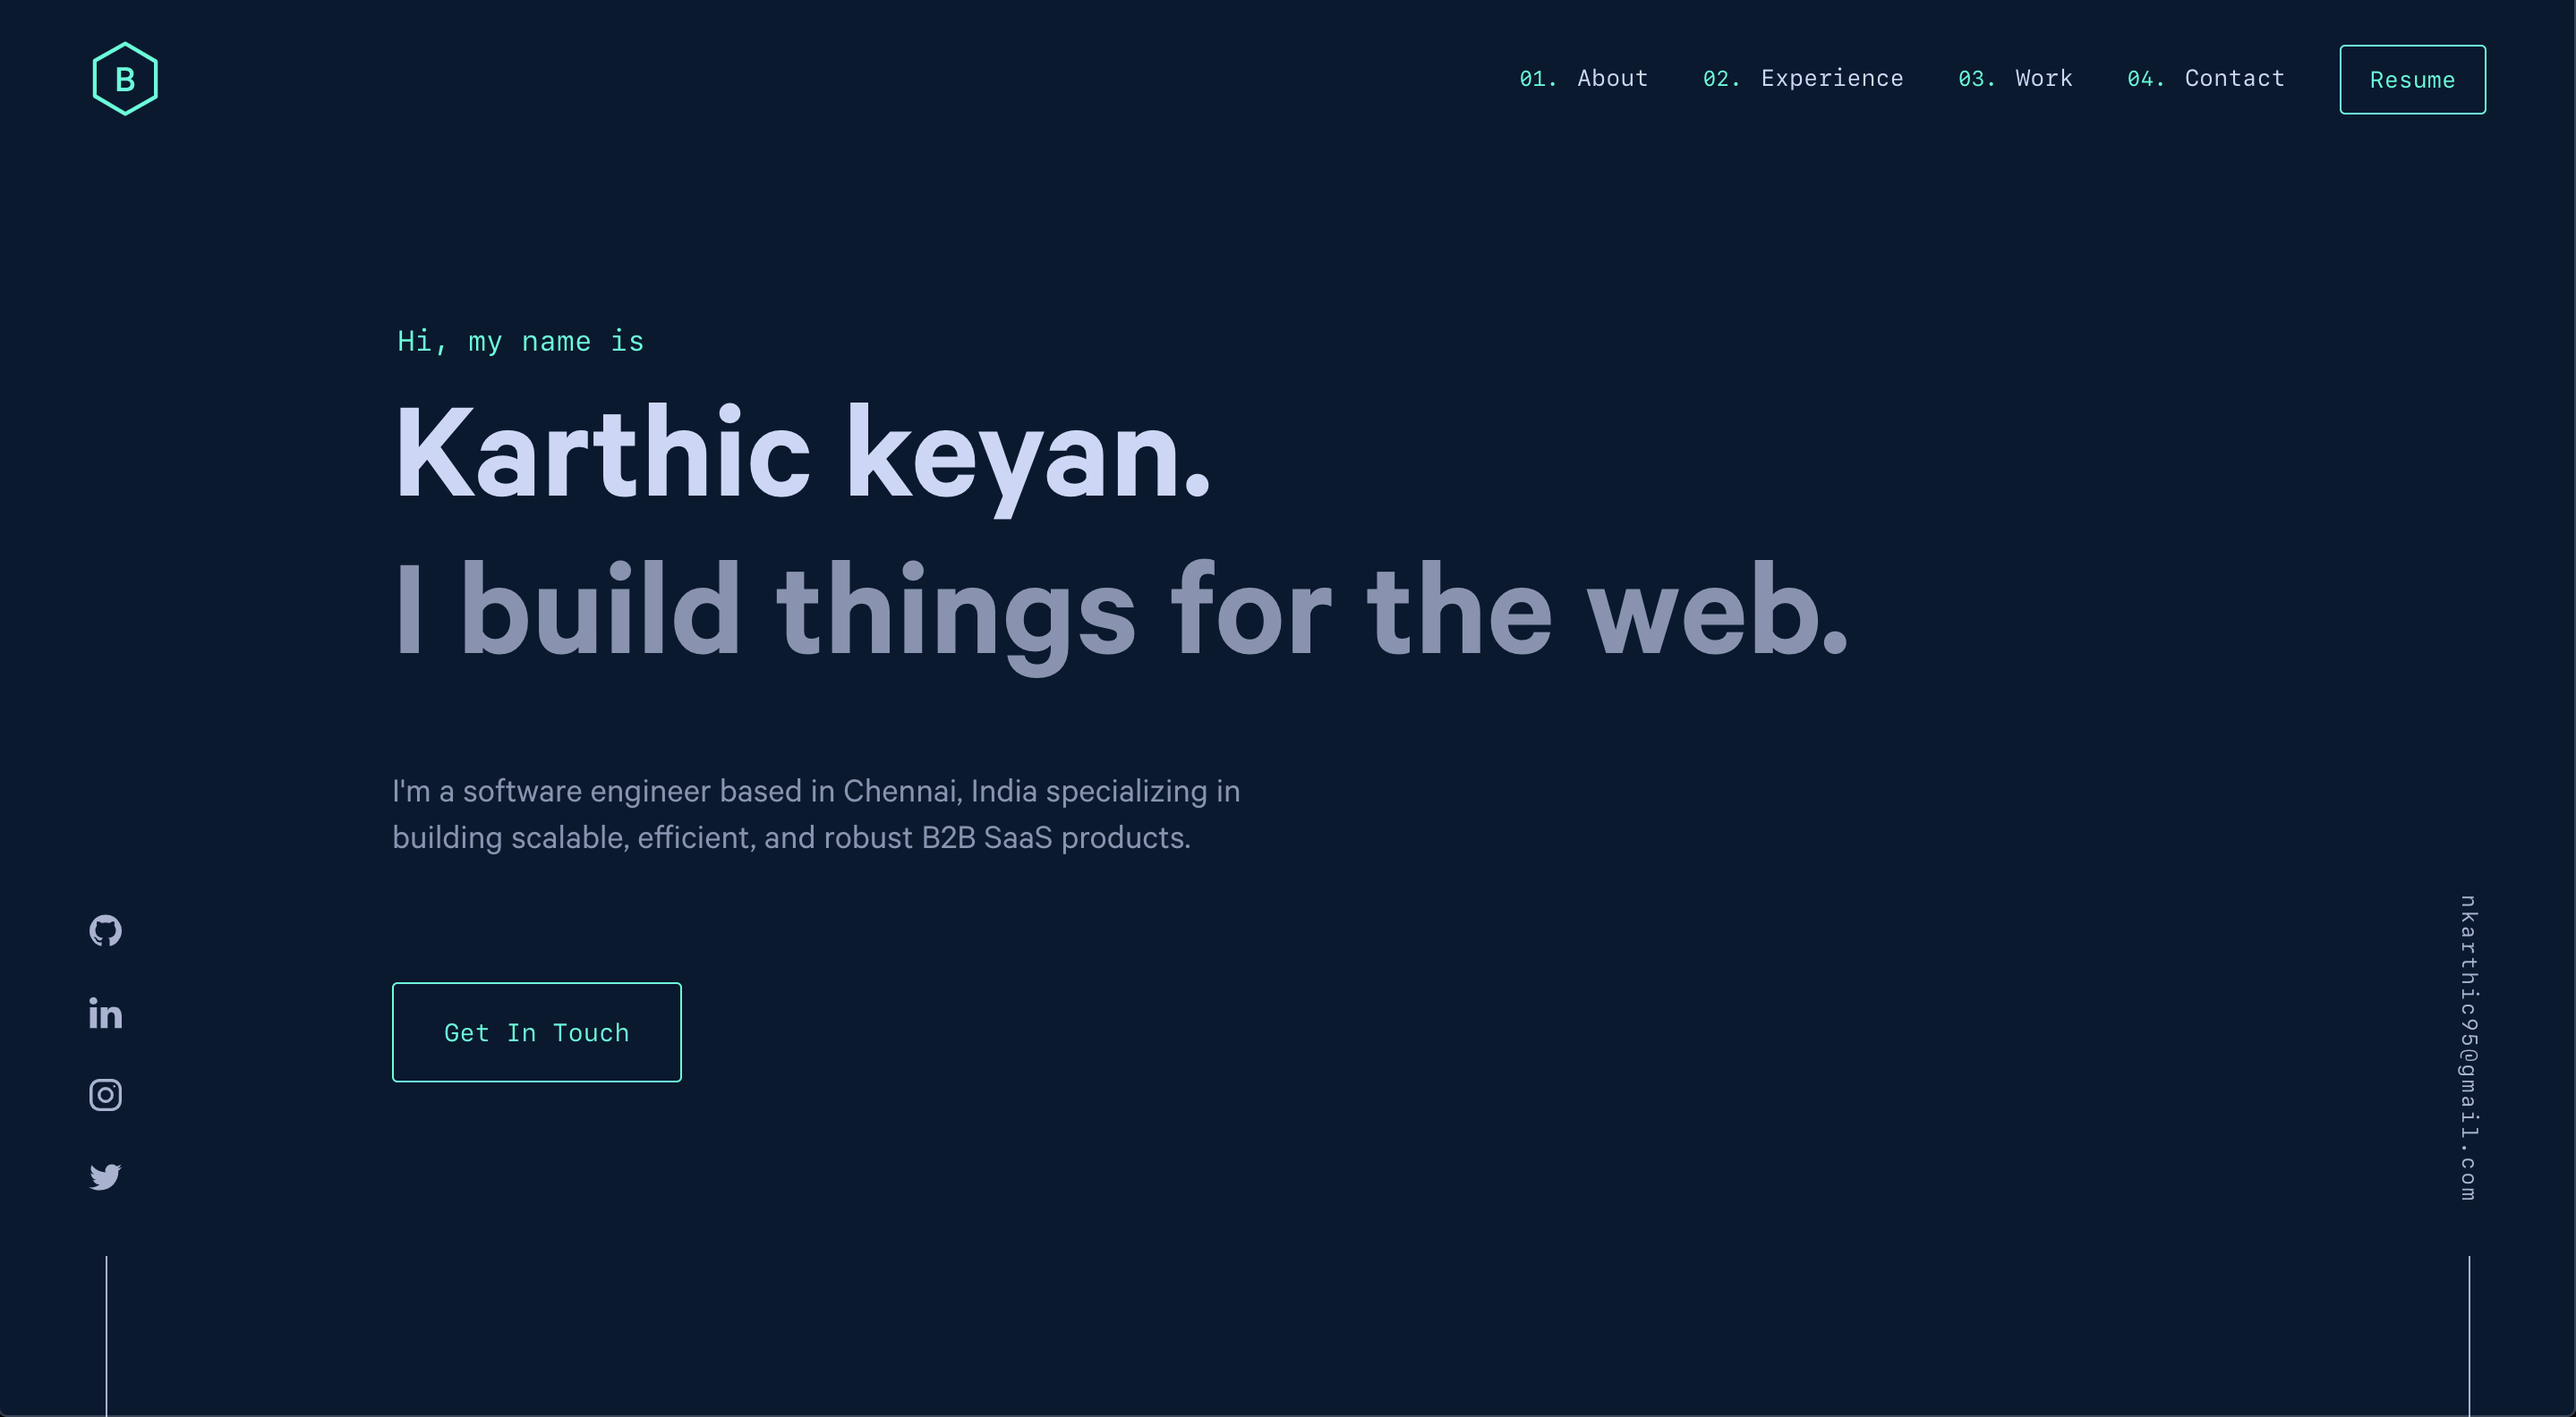
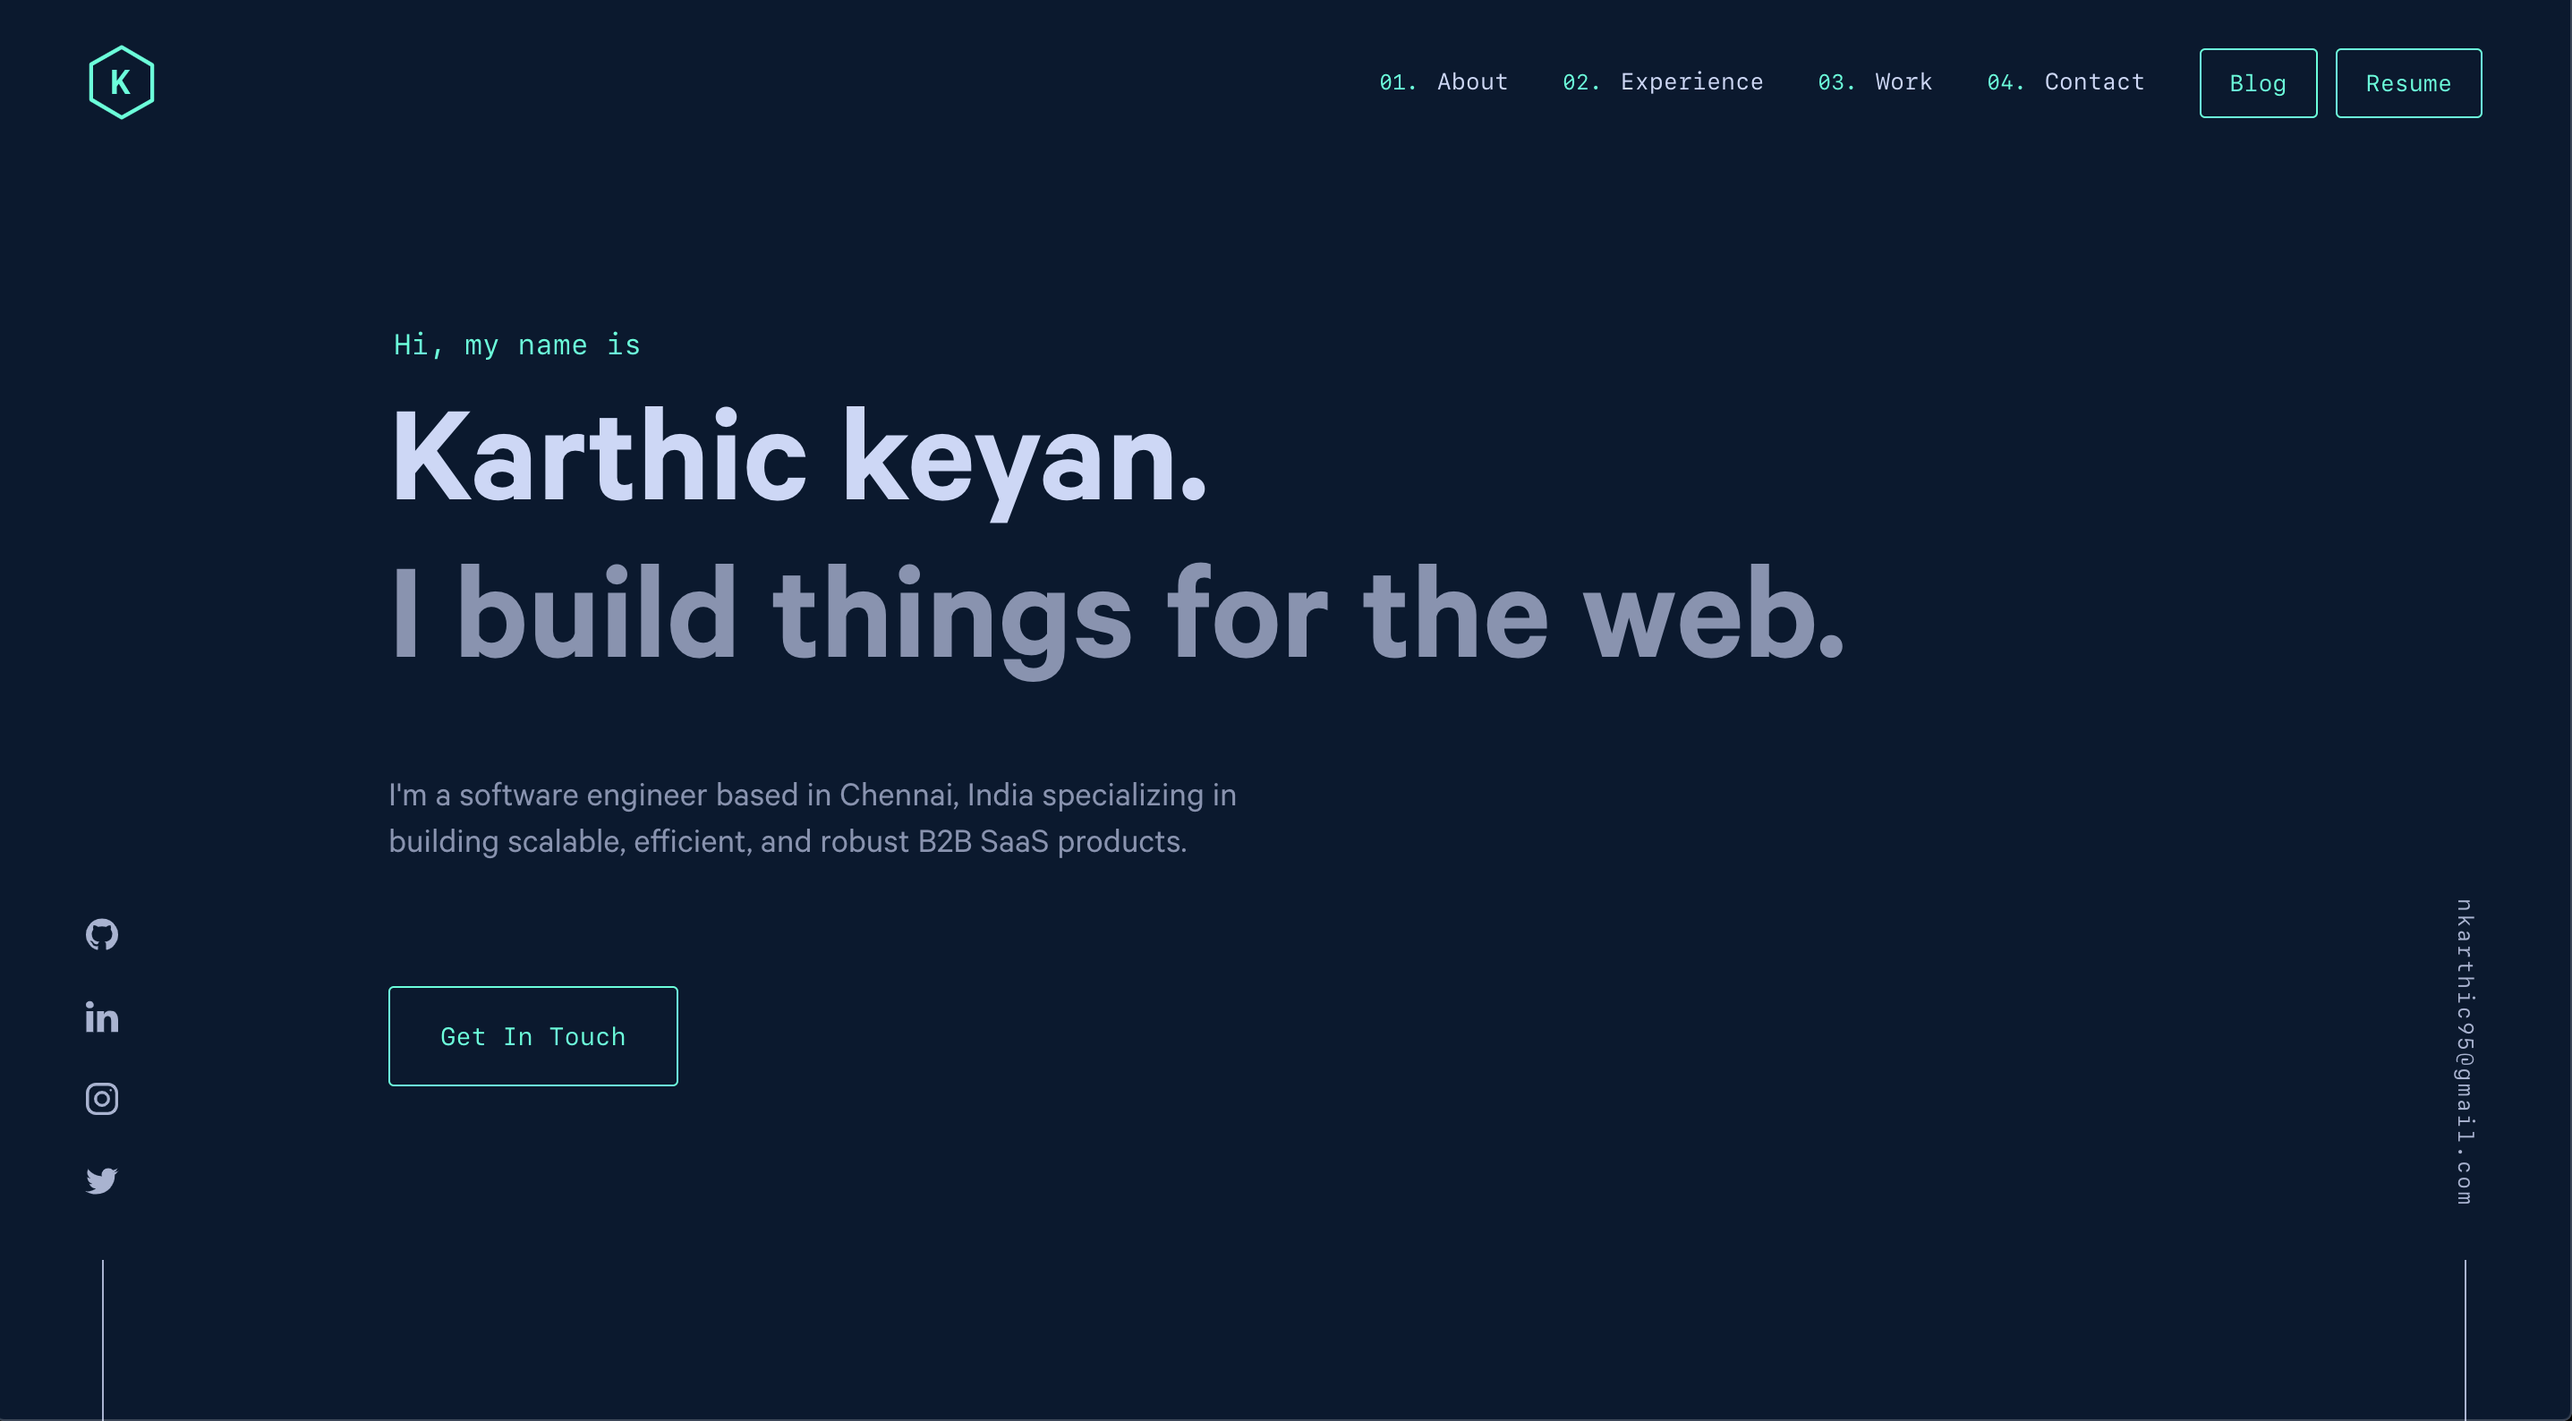
remove numbering in right nav mobile view

diff --git a/src/components/menu.js b/src/components/menu.js
@@ -100,13 +100,14 @@ const Menu = ({ menuOpen, toggleMenu }) => {
       <Sidebar>
         <NavLinks>
           <NavList>
-            {navLinks &&
-              navLinks.map(({ url, name }, i) => (
-                <NavListItem key={i}>
-                  <NavLink to={url}>{name}</NavLink>
-                </NavListItem>
-              ))}
+            {navLinks && navLinks.map(({ url, name }, i) => <NavLink to={url}>{name}</NavLink>)}
           </NavList>
+          <ResumeLink
+            href="https://mozkarthic.wordpress.com/"
+            target="_blank"
+            rel="nofollow noopener noreferrer">
+            Blog
+          </ResumeLink>
           <ResumeLink href="/resume.pdf" target="_blank" rel="nofollow noopener noreferrer">
             Resume
           </ResumeLink>
